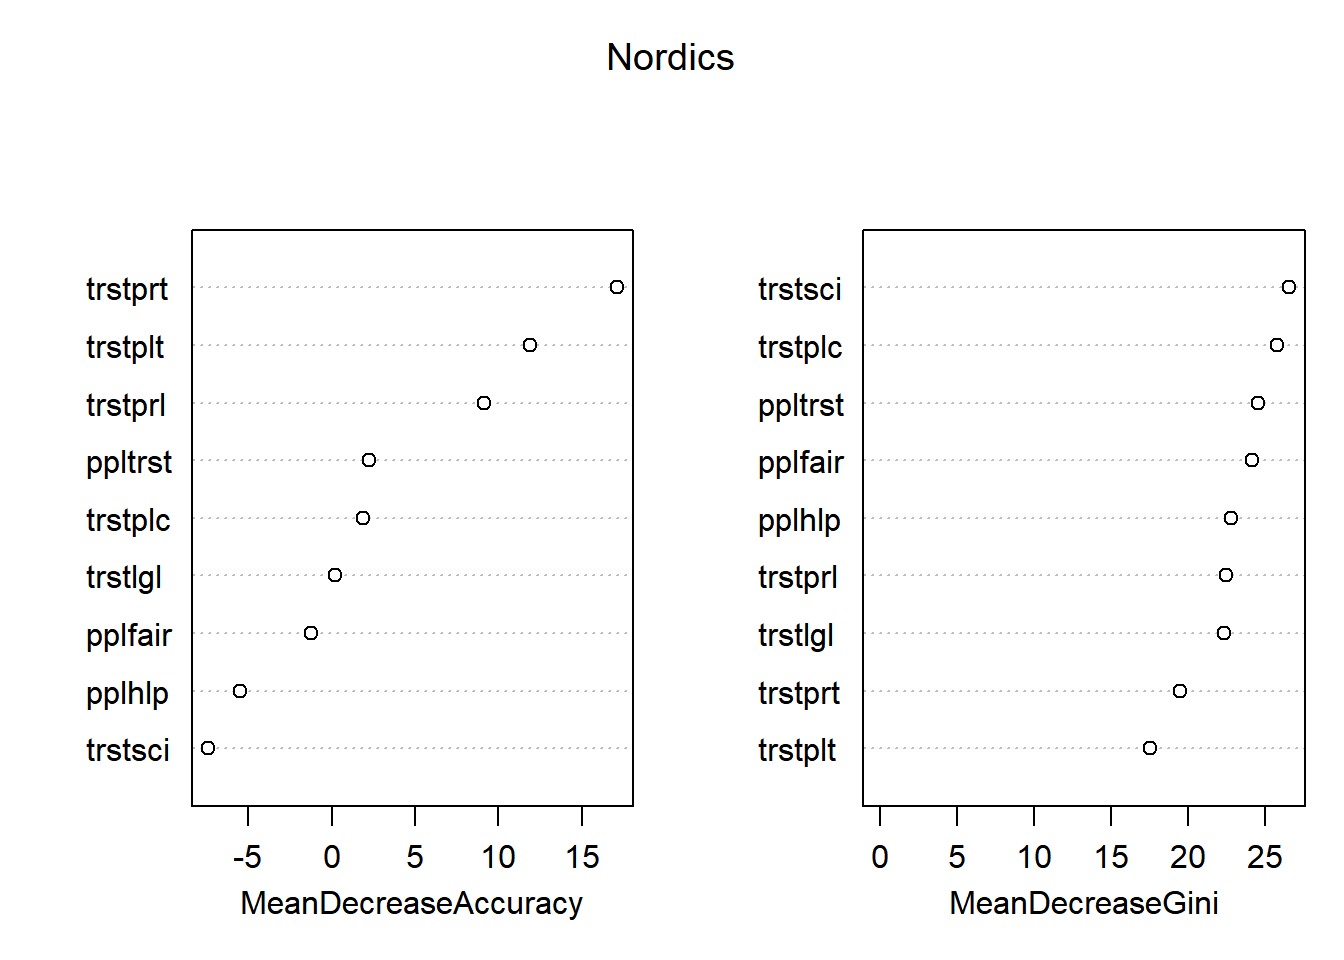
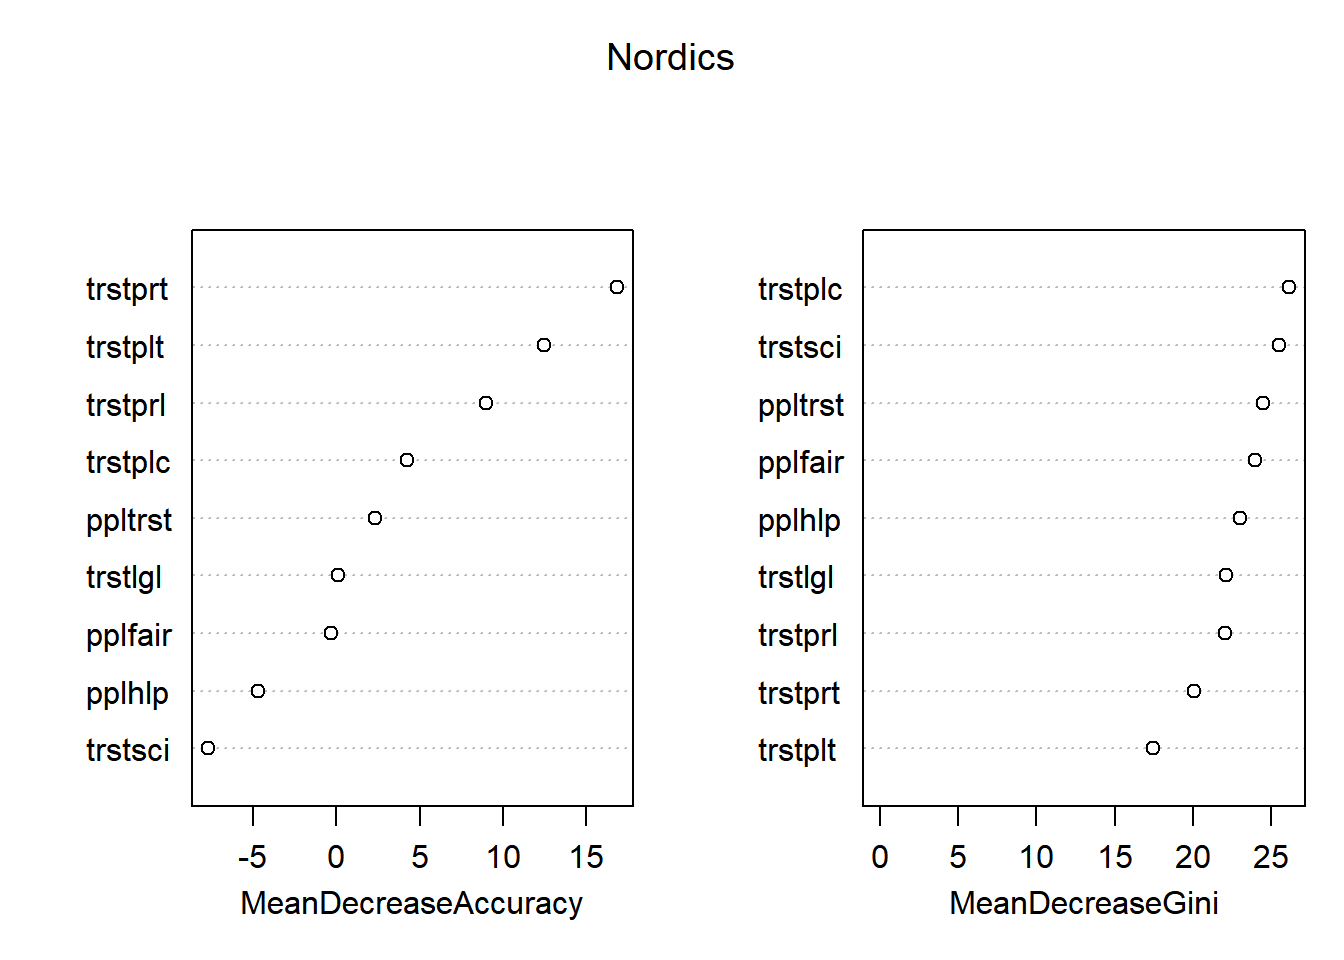
Re-knitted without errors

diff --git a/DecisionTreesPlots.html b/DecisionTreesPlots.html
@@ -62,75 +62,6 @@ ul.task-list li input[type="checkbox"] {
 </header>
 
 
-<div class="cell">
-<div class="cell-output cell-output-stderr">
-<pre><code>Warning: package 'tree' was built under R version 4.4.3</code></pre>
-</div>
-<div class="cell-output cell-output-stderr">
-<pre><code>Warning: package 'caret' was built under R version 4.4.3</code></pre>
-</div>
-<div class="cell-output cell-output-stderr">
-<pre><code>Loading required package: ggplot2</code></pre>
-</div>
-<div class="cell-output cell-output-stderr">
-<pre><code>Loading required package: lattice</code></pre>
-</div>
-<div class="cell-output cell-output-stderr">
-<pre><code>
-Attaching package: 'dplyr'</code></pre>
-</div>
-<div class="cell-output cell-output-stderr">
-<pre><code>The following objects are masked from 'package:stats':
-
-    filter, lag</code></pre>
-</div>
-<div class="cell-output cell-output-stderr">
-<pre><code>The following objects are masked from 'package:base':
-
-    intersect, setdiff, setequal, union</code></pre>
-</div>
-<div class="cell-output cell-output-stderr">
-<pre><code>Warning: package 'randomForest' was built under R version 4.4.3</code></pre>
-</div>
-<div class="cell-output cell-output-stderr">
-<pre><code>randomForest 4.7-1.2</code></pre>
-</div>
-<div class="cell-output cell-output-stderr">
-<pre><code>Type rfNews() to see new features/changes/bug fixes.</code></pre>
-</div>
-<div class="cell-output cell-output-stderr">
-<pre><code>
-Attaching package: 'randomForest'</code></pre>
-</div>
-<div class="cell-output cell-output-stderr">
-<pre><code>The following object is masked from 'package:dplyr':
-
-    combine</code></pre>
-</div>
-<div class="cell-output cell-output-stderr">
-<pre><code>The following object is masked from 'package:ggplot2':
-
-    margin</code></pre>
-</div>
-<div class="cell-output cell-output-stderr">
-<pre><code>Warning: package 'doParallel' was built under R version 4.4.3</code></pre>
-</div>
-<div class="cell-output cell-output-stderr">
-<pre><code>Loading required package: foreach</code></pre>
-</div>
-<div class="cell-output cell-output-stderr">
-<pre><code>Warning: package 'foreach' was built under R version 4.4.3</code></pre>
-</div>
-<div class="cell-output cell-output-stderr">
-<pre><code>Loading required package: iterators</code></pre>
-</div>
-<div class="cell-output cell-output-stderr">
-<pre><code>Warning: package 'iterators' was built under R version 4.4.3</code></pre>
-</div>
-<div class="cell-output cell-output-stderr">
-<pre><code>Loading required package: parallel</code></pre>
-</div>
-</div>
 <section id="central-europe" class="level3">
 <h3 class="anchored" data-anchor-id="central-europe">Central Europe</h3>
 <div class="cell">
@@ -470,16 +401,16 @@ Pruned Tree for Nordics :</code></pre>
 </div>
 </div>
 <div class="cell-output cell-output-stdout">
-<pre><code>Nordics Random Forest Variable Importance              High       Low     Medium MeanDecreaseAccuracy MeanDecreaseGini
-ppltrst  1.5897139 0.8918324  3.4392708             2.258262         24.55011
-pplhlp  -6.7530123 3.8348160  4.0745809            -5.507393         22.80661
-pplfair -2.2474202 3.4879342  3.0617463            -1.220657         24.16159
-trstprl  7.8669389 2.3628411  8.1430852             9.130615         22.46820
-trstlgl  0.2453475 2.7313289 -0.8762363             0.222505         22.36905
-trstplc  1.5686218 0.9865895  1.2630831             1.888796         25.80183
-trstplt 12.0907786 0.1593414 -2.4181135            11.897070         17.52783
-trstprt 16.7927291 2.0937679  2.6933871            17.110930         19.50056
-trstsci -9.2385179 3.8947907  5.9550350            -7.426115         26.56965</code></pre>
+<pre><code>Nordics Random Forest Variable Importance              High         Low     Medium MeanDecreaseAccuracy MeanDecreaseGini
+ppltrst  1.7915197  1.86396272  1.7275736           2.31097926         24.50909
+pplhlp  -6.2573462  5.72457375  4.2523283          -4.73252344         23.02416
+pplfair -1.3875341  4.49955756  3.0942600          -0.34215893         24.00094
+trstprl  7.7018525  4.04106645  6.5640275           8.98142646         22.04638
+trstlgl  0.1016587  1.59710957 -0.9639846           0.07418447         22.12454
+trstplc  4.0679601  0.87717414  0.9329468           4.25547616         26.12784
+trstplt 12.6671366 -0.01257327 -1.9772895          12.43998283         17.47377
+trstprt 16.3314891  2.93592986  2.4639428          16.82323401         20.07180
+trstsci -9.1980740  3.23909469  4.9000959          -7.71816330         25.52274</code></pre>
 </div>
 <div class="cell-output-display">
 <div>
